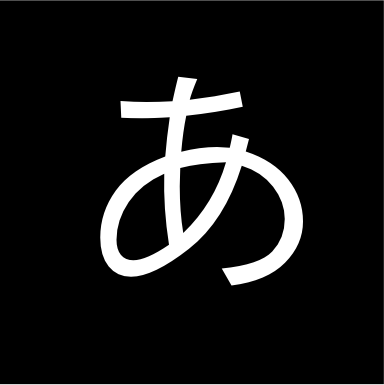
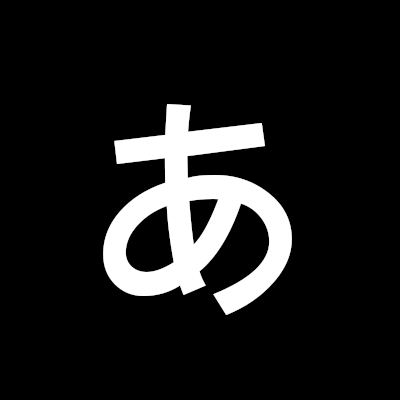
Add forced stimuli, first responses, and slider with curr value

Changed region(s): [[0.25, 0.187, 0.8125, 0.8104], [0.0, 0.9974, 1.0, 1.0], [0.9688, 0.0, 1.0, 0.0312]]

diff --git a/code/task/pedlr-task.html b/code/task/pedlr-task.html
@@ -21,41 +21,81 @@
 //preload stimuli files
 // Get folder contents of stimuli puctures
 var stimuli = ['stimuli/a1.png',
-               'stimuli/arrow_left.png',
-               'stimuli/intro_pic1.png',
-               'stimuli/s2.png',
-               'stimuli/s5.png',
+               'stimuli/a1.png',
+               'stimuli/a1_forced.png',
                'stimuli/a2.png',
-               'stimuli/arrow_right.png',
-               'stimuli/intro_pic2.png',
-               'stimuli/s3.png',
-               'stimuli/s6.png',
+               'stimuli/a2_forced.png',
                'stimuli/a3.png',
-               'stimuli/fixation.png',
+               'stimuli/a3_forced.png',
                'stimuli/s1.png',
+               'stimuli/s1_forced.png',
+               'stimuli/s2.png',
+               'stimuli/s2_forced.png',
+               'stimuli/s3.png',
+               'stimuli/s3_forced.png',
                'stimuli/s4.png',
-               'stimuli/sno.png'
+               'stimuli/s4_forced.png',
+               'stimuli/s5.png',
+               'stimuli/s5_forced.png',
+               'stimuli/s6.png',
+               'stimuli/s6_forced.png',
+               'stimuli/fixation.png'
              ]
+
+// Set scaling of images and margins to adjust size of experiment (in percentage)
+var img_scale = 30
 
 var timeline = []
 
+// Choice trials
 var choice = {
   timeline: [
     {
+      // Fixation cross ITI
       type: 'html-keyboard-response',
       stimulus: function(){
-        var html = "<img src='stimuli/fixation.png'>";
+        var html = "<img src='stimuli/fixation.png' style='margin:0px "+50/100 * img_scale+"px; width: "+400/100 * img_scale+"px;'>";
         return html;
       },
       trial_duration: 1000,
       choices: jsPsych.NO_KEYS
     },
     {
+      // Choice trial presenting two stimuli with choice
       type: 'html-keyboard-response',
       stimulus: function(){
-        var html = "<img src='"+jsPsych.timelineVariable('stimulus_left', true)+"' style='margin:0px 50px'>";
-        html += "<img src='stimuli/fixation.png'>";
-        html += "<img src='"+jsPsych.timelineVariable('stimulus_left', true)+" 'style='margin:0px 50px'>";
+        var html = "<img src='"+jsPsych.timelineVariable('stimulus_left', true)+"' style='margin:0px "+50/100 * img_scale+"px; width: "+400/100 * img_scale+"px;'>";
+        html += "<img src='stimuli/fixation.png' style='margin:0px "+50/100 * img_scale+"px; width: "+400/100 * img_scale+"px;'>";
+        html += "<img src='"+jsPsych.timelineVariable('stimulus_right', true)+" 'style='margin:0px "+50/100 * img_scale+"px; width: "+400/100 * img_scale+"px;'>";
+        return html;
+      },
+      trial_duration: 3000,
+      response_ends_trial: true,
+      choices: ['f', 'j'],
+      // Record presented stimuli
+      data: {
+        stimulus_left: 'A',
+        stimulus_right: 'B'
+      },
+      // Record pressed button and associated reward
+      on_finish: function(data){
+        if(data.key_press == 70){
+          data.choice = 'left'
+          data.outcome = jsPsych.timelineVariable('outcome_left', true)
+        } else if(data.key_press == 74){
+          data.choice = 'right'
+          data.outcome = jsPsych.timelineVariable('outcome_right', true)
+        } else {
+          data.choice = 'false'
+          data.outcome = 'n/a'
+        }
+      }
+    },
+    {
+      // Display outcome
+      type: 'html-keyboard-response',
+      stimulus: function(){
+        var html = "<p>"+jsPsych.data.get().last(1).values()[0].outcome+"</p>";
         return html;
       },
       trial_duration: 1000,
@@ -63,51 +103,86 @@ var choice = {
     }
   ],
   timeline_variables: [
-    {stimulus_left: 'stimuli/a1.png', stimulus_right: 'stimuli/a1.png'},
-    {stimulus_left: 'stimuli/a2.png', stimulus_right: 'stimuli/a2.png'},
-    {stimulus_left: 'stimuli/a3.png', stimulus_right: 'stimuli/a4.png'},
+    {stimulus_left: 'stimuli/a2.png', stimulus_right: 'stimuli/a3.png', outcome_left: 94, outcome_right: 26},
+    {stimulus_left: 'stimuli/a3.png', stimulus_right: 'stimuli/a1.png', outcome_left: 33, outcome_right: 10},
+    {stimulus_left: 'stimuli/a3.png', stimulus_right: 'stimuli/a1.png', outcome_left: 12, outcome_right: 82},
   ]
 }
 
+
+// Forced choice trials
 var forced_choice = {
   timeline: [
     {
+      // Fixation cross between different trials
       type: 'html-keyboard-response',
       stimulus: function(){
-        var html = "<img src='stimuli/fixation.png'>";
+        var html = "<img src='stimuli/fixation.png' style='margin:0px "+50/100 * img_scale+"px; width: "+400/100 * img_scale+"px;'>";
         return html;
       },
       trial_duration: 1000,
       choices: jsPsych.NO_KEYS
     },
     {
+      // Trial presenting two stimuli
       type: 'html-keyboard-response',
       stimulus: function(){
-        var html = "<img src='"+jsPsych.timelineVariable('stimulus_left', true)+"' style='margin:0px 50px'>";
-        html += "<img src='stimuli/arrow_"+jsPsych.timelineVariable('forced', true)+".png'>";
-        html += "<img src='"+jsPsych.timelineVariable('stimulus_left', true)+" 'style='margin:0px 50px'>";
+        var html = "<img src='"+jsPsych.timelineVariable('stimulus_left', true)+"' style='margin:0px "+50/100 * img_scale+"px; width: "+400/100 * img_scale+"px;'>";
+        html += "<img src='stimuli/fixation.png' style='margin:0px "+50/100 * img_scale+"px; width: "+400/100 * img_scale+"px;'>";
+        html += "<img src='"+jsPsych.timelineVariable('stimulus_right', true)+" ' style='margin:0px "+50/100 * img_scale+"px; width: "+400/100 * img_scale+"px;'>";
+        return html;
+      },
+      trial_duration: 3000,
+      response_ends_trial: true,
+      choices: ['f', 'j']
+    },
+    {
+      type: 'html-keyboard-response',
+      stimulus: function(){
+        var html = "<p>"+jsPsych.timelineVariable('outcome_left', true)+"</p>";
         return html;
       },
       trial_duration: 1000,
-      choices: jsPsych.NO_KEYS
+      response_ends_trial: true,
+      choices: ['f', 'j'],
+      // Record presented stimuli
+      data: {
+        stimulus_left: 'A',
+        stimulus_right: 'B'
+      },
+      // Record pressed button and associated reward
+      on_finish: function(data){
+        // Check pressed button
+        if(data.key_press == 70){
+          data.choice = 'left'
+        } else if(data.key_press == 74){
+          data.choice = 'right'
+        } else {
+          data.choice = 'false'
+        }
+        // Check if pressed button was forced
+      }
     }
   ],
+  // Variables for this trial type: right stimulus, left stimulus, right outcome, and left outcome
   timeline_variables: [
-    {stimulus_left: 'stimuli/a1.png', stimulus_right: 'stimuli/a1.png', forced: 'right'},
-    {stimulus_left: 'stimuli/a2.png', stimulus_right: 'stimuli/a2.png', forced: 'left'},
-    {stimulus_left: 'stimuli/a3.png', stimulus_right: 'stimuli/a4.png', forced: 'right'},
+    {stimulus_left: 'stimuli/a1_forced.png', stimulus_right: 'stimuli/a3.png', outcome_left: 55, outcome_right: 21, forced: 'left'},
+    {stimulus_left: 'stimuli/a2.png', stimulus_right: 'stimuli/a1_forced.png', outcome_left: 20, outcome_right: 49, forced: 'right'},
+    {stimulus_left: 'stimuli/a3_forced.png', stimulus_right: 'stimuli/a2.png', outcome_left: 10, outcome_right: 90, forced: 'left'},
   ]
 }
 
+// Rating trials
 var rating = {
   timeline: [
     {
       type: 'html-slider-response',
       stimulus: function(){
-        var html = "<img src='"+jsPsych.timelineVariable('stimulus', true)+"' style='margin:0px 50px'>";
+        var html = "<img src='"+jsPsych.timelineVariable('stimulus', true)+"' style='margin:0px "+50/100 * img_scale+"px; width: "+1.5 * 400/100 * img_scale+"px;'>";
         return html;
       },
-      labels: ['0', '10', '20', '30', '40', '50', '60', '70', '80', '90', '100'],
+      labels: ['0', '20', '40', '60', '80', '100'],
+      //labels: ['0','100'],
       step: 1,
       prompt: "<p>What reward will you get?</p>"
     }
@@ -126,7 +201,6 @@ timeline.push(rating)
 
 
 jsPsych.init({
-  //timeline: timeline
   timeline: timeline,
   override_safe_mode: false,
   preload_images: stimuli

diff --git a/code/task/jspsych-6.2.0/plugins/jspsych-html-slider-response.js b/code/task/jspsych-6.2.0/plugins/jspsych-html-slider-response.js
@@ -100,35 +100,42 @@ jsPsych.plugins['html-slider-response'] = (function() {
     }
   }
 
+  // function to read current slider value
+  function updateTextInput(val) {
+    document.getElementById('textInput').value=val; 
+  }
+
   plugin.trial = function(display_element, trial) {
 
     // half of the thumb width value from jspsych.css, used to adjust the label positions
     var half_thumb_width = 7.5; 
 
-    var html = '<div id="jspsych-html-slider-response-wrapper" style="margin: 100px 0px;">';
+    var html = '<div id="jspsych-html-slider-response-wrapper" style="margin: 100px 0px; background-color: transparent;">';
     html += '<div id="jspsych-html-slider-response-stimulus">' + trial.stimulus + '</div>';
-    html += '<div class="jspsych-html-slider-response-container" style="position:relative; margin: 0 auto 3em auto; ';
+    html += '<div class="jspsych-html-slider-response-container" style="position:relative; margin: 0 auto 1.5em auto; ';
     if(trial.slider_width !== null){
       html += 'width:'+trial.slider_width+'px;';
     } else {
       html += 'width:auto;';
     }
     html += '">';
-    html += '<input type="range" class="jspsych-slider" value="'+trial.slider_start+'" min="'+trial.min+'" max="'+trial.max+'" step="'+trial.step+'" id="jspsych-html-slider-response-response"></input>';
-    html += '<div>'
     for(var j=0; j < trial.labels.length; j++){
       var label_width_perc = 100/(trial.labels.length-1);
       var percent_of_range = j * (100/(trial.labels.length - 1));
       var percent_dist_from_center = ((percent_of_range-50)/50)*100;
       var offset = (percent_dist_from_center * half_thumb_width)/100;
-      html += '<div style="border: 1px solid transparent; display: inline-block; position: absolute; '+
+      html += '<div style="background-color: transparent; border: 1px solid transparent; display: inline-block; position: absolute; '+
       'left:calc('+percent_of_range+'% - ('+label_width_perc+'% / 2) - '+offset+'px); text-align: center; width: '+label_width_perc+'%;">';  
       html += '<span style="text-align: center; font-size: 80%;">'+trial.labels[j]+'</span>';
-      html += '</div>'
+      html += '</div>';
     }
     html += '</div>';
-    html += '</div>';
-    html += '</div>';
+    html += '<div style="background-color: transparent">'
+    // Html of slider, oninput gives current value
+    html += '<input type="range" class="jspsych-slider" value="'+trial.slider_start+'" min="'+trial.min+'" max="'+trial.max+'" step="'+trial.step+'" id="jspsych-html-slider-response-response" oninput="this.nextElementSibling.value = this.value";></input>';
+    // Display current value
+    html += '<output>'+trial.slider_start+'</output>';
+    html += '</div>'
 
     if (trial.prompt !== null){
       html += trial.prompt;

diff --git a/docs/stimuli.md b/docs/stimuli.md
@@ -1,0 +1,30 @@
+# Stimuli
+
+## Main task
+
+### Japanese letters
+
+| Stimulus | Japanese letter | Roman letter or sound |
+|----------|-----------------|-------|
+| s1.png | あ | [Ah (hiragana)](https://en.wikipedia.org/wiki/A_(kana)) |
+| s2.png | え | [e (hiragana)](https://en.wikipedia.org/wiki/E_(kana)) |
+| s3.png | か | [Ka (hiragana)](https://en.wikipedia.org/wiki/Ka_(kana)) |
+| s4.png | ち | [Chi (hiragana)](https://en.wikipedia.org/wiki/Chi_(kana)) |
+| s5.png | せ | [Se (hiragana)](https://en.wikipedia.org/wiki/Se_(kana)) |
+| s6.png | の | [no (hiragana)](https://en.wikipedia.org/wiki/No_(kana)) |
+
+## Training task
+
+| Stimulus | Letter |
+|----------|--------|
+| a1.png | A |
+| a2.png | B |
+| a3.png | C |
+
+## Stimulus creation:
+
+- 400x400px canvas (black)
+- 250px font (white, centred horizontally & vertically)
+- For forced stimuli:
+    - 300x300px selection (centred horizontally & vertically)
+    - 5px border (white)
